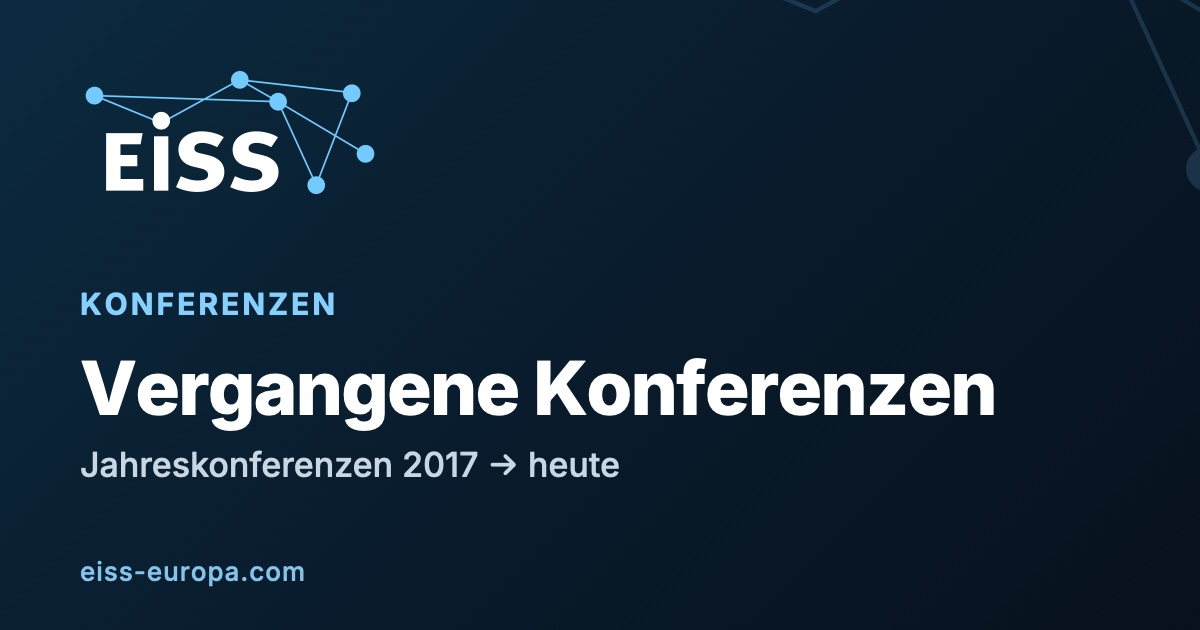
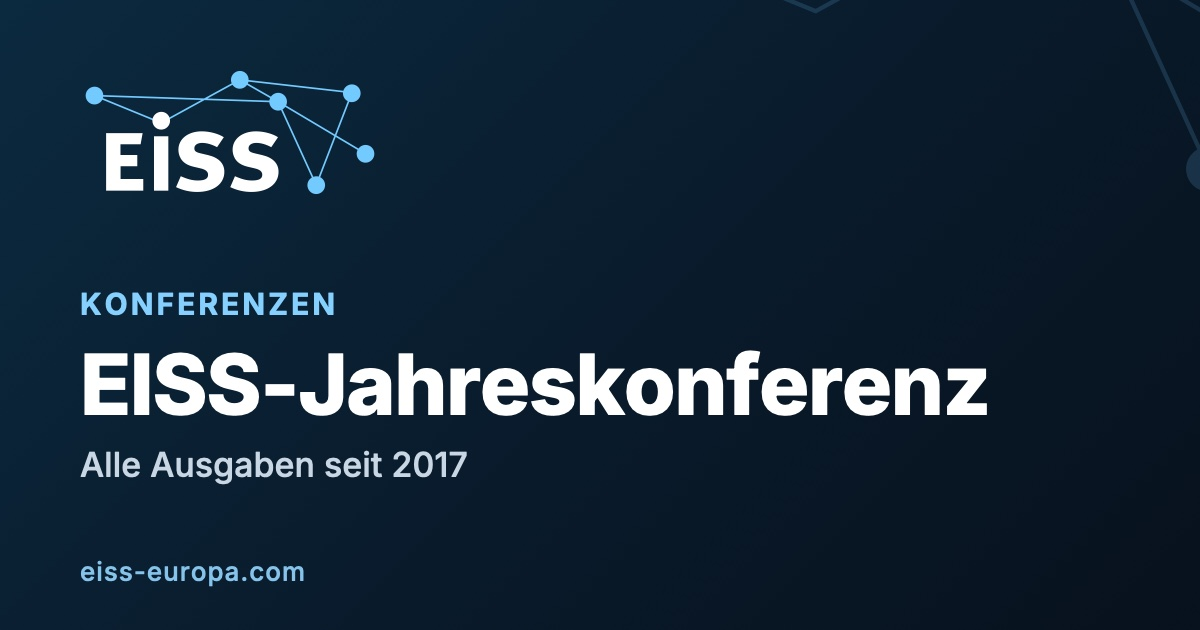
Name the conference share cards: ESSC for the live edition, EISS Annual Conference for the archive (#536)
Split the shared conference share card two ways:

- The upcoming / live edition (/2026, all locales) gets its own card,
  eyebrow 'ESSC 2026', titled 'European Security Studies Conference',
  with the dates and venue. /2026.njk (+ fr/de) metaImage points at the
  new 2026-meta.*.
- The /past archive index and the past years (/2025, /2024) keep the
  shared card, retitled from 'Past conferences' to 'EISS Annual
  Conference' ('Every edition since 2017').

Previously every conference page shared one 'Past conferences' card, so
the flagship upcoming page undersold itself. FR/DE titles are
hand-translated (Conférence européenne d'études de sécurité /
Europäische Konferenz für Sicherheitsstudien; Conférence annuelle de
l'EISS / EISS-Jahreskonferenz) — flagged for native-speaker confirmation.

docs/new-conference.md updated: step 3 uses the new full-name card
convention, and the 'When the conference is over' section documents the
rollover (retire the bespoke card, repoint the year to past-meta) so
exactly one edition ever carries the full-name card.

Cards regenerated and eyeballed (1200x630, Inter, brand blues); i18n
drift re-stamped for the 2026 front-matter change; build + build-sanity
clean. Closes #536.

Changed region(s): [[0.0617, 0.5429, 0.8325, 0.6937], [0.0617, 0.6937, 0.5242, 0.7841]]

diff --git a/scripts/make-share-cards.py b/scripts/make-share-cards.py
@@ -82,13 +82,24 @@ CARDS = [
         "de": {"eyebrow": "EISS", "title": "Europäische Initiative für Sicherheitsstudien",
                "subtitle": "Europas größte Versammlung zu Sicherheitsfragen"},
     }},
-    # NB: the per-year conference pages (/2026, /2025, /2024) and the
-    # archive index (/past) all share ONE share card — `past-meta.*` —
-    # since the conference-card unification (#485). So there are no per-year
-    # cards here; generating them would only produce orphans (which is what
-    # #516 cleaned up). Whether the upcoming flagship edition deserves its
-    # own card again (rather than the "Past conferences" shared one) is
-    # tracked separately.
+    # Conference cards split two ways (see #536):
+    #   - The upcoming / live edition gets its OWN card, titled with the
+    #     full conference name ("European Security Studies Conference"),
+    #     below as the `2026` slug; /2026 (+ .fr/.de) point their metaImage
+    #     at 2026-meta.*.
+    #   - The archived years (/2025, /2024) and the /past index share the
+    #     `past` card, titled "EISS Annual Conference".
+    # Rollover: when this edition becomes past, repoint /2026 to past-meta
+    # and add the next edition here under its own slug. See
+    # docs/new-conference.md.
+    {"slug": "2026", "i18n": {
+        "en": {"eyebrow": "ESSC 2026", "title": "European Security Studies Conference",
+               "subtitle": "11–12 June 2026 · Stockholm University"},
+        "fr": {"eyebrow": "ESSC 2026", "title": "Conférence européenne d'études de sécurité",
+               "subtitle": "11–12 juin 2026 · Université de Stockholm"},
+        "de": {"eyebrow": "ESSC 2026", "title": "Europäische Konferenz für Sicherheitsstudien",
+               "subtitle": "11.–12. Juni 2026 · Universität Stockholm"},
+    }},
     {"slug": "board", "i18n": {
         "en": {"eyebrow": "About", "title": "The People",
                "subtitle": "The EISS board and support team"},
@@ -98,12 +109,12 @@ CARDS = [
                "subtitle": "Der EISS-Vorstand und das Unterstützungsteam"},
     }},
     {"slug": "past", "i18n": {
-        "en": {"eyebrow": "Conferences", "title": "Past conferences",
-               "subtitle": "Annual conferences 2017 → today"},
-        "fr": {"eyebrow": "Conférences", "title": "Conférences passées",
-               "subtitle": "Conférences annuelles 2017 → aujourd'hui"},
-        "de": {"eyebrow": "Konferenzen", "title": "Vergangene Konferenzen",
-               "subtitle": "Jahreskonferenzen 2017 → heute"},
+        "en": {"eyebrow": "Conferences", "title": "EISS Annual Conference",
+               "subtitle": "Every edition since 2017"},
+        "fr": {"eyebrow": "Conférences", "title": "Conférence annuelle de l'EISS",
+               "subtitle": "Toutes les éditions depuis 2017"},
+        "de": {"eyebrow": "Konferenzen", "title": "EISS-Jahreskonferenz",
+               "subtitle": "Alle Ausgaben seit 2017"},
     }},
     {"slug": "programmes", "i18n": {
         "en": {"eyebrow": "Research programmes", "title": "Programmes",

diff --git a/docs/new-conference.md b/docs/new-conference.md
@@ -70,15 +70,21 @@ Copy `src/2026.njk` to `src/2027.njk` (and its FR/DE siblings) and:
 
 ## 3. Generate the share card
 
+The upcoming / live edition gets its own card, titled with the full
+conference name. The eyebrow (`ESSC <year>`) and subtitle (dates + venue)
+identify the edition; the title stays constant year to year. The archived
+years and `/past` keep the shared `past` card ("EISS Annual Conference"),
+so you don't touch those.
+
 Add a new entry to `scripts/make-share-cards.py` → `CARDS`:
 
 ```python
 {"slug": "2027", "i18n": {
-    "en": {"eyebrow": "Annual conference", "title": "ESSC 2027 — Amsterdam",
+    "en": {"eyebrow": "ESSC 2027", "title": "European Security Studies Conference",
            "subtitle": "23–24 June 2027 · University of Amsterdam"},
-    "fr": {"eyebrow": "Conférence annuelle", "title": "ESSC 2027 — Amsterdam",
+    "fr": {"eyebrow": "ESSC 2027", "title": "Conférence européenne d'études de sécurité",
            "subtitle": "23–24 juin 2027 · Université d'Amsterdam"},
-    "de": {"eyebrow": "Jahreskonferenz", "title": "ESSC 2027 — Amsterdam",
+    "de": {"eyebrow": "ESSC 2027", "title": "Europäische Konferenz für Sicherheitsstudien",
            "subtitle": "23.–24. Juni 2027 · Universität Amsterdam"},
 }},
 ```
@@ -90,7 +96,8 @@ python3 scripts/make-share-cards.py
 ```
 
 The script writes `2027-meta.jpg`, `2027-meta.fr.jpg`, `2027-meta.de.jpg`
-to `src/assets/images/`. Reference these in the new page's front-matter.
+to `src/assets/images/`. Point the new page's front-matter `metaImage`
+(EN + FR + DE) at `/assets/images/2027-meta.jpg`.
 
 ## 4. Update the i18n drift state
 
@@ -127,12 +134,27 @@ check the featured card and archive list. Commit, push, merge.
 
 ## When the conference is over
 
-Nothing to do. The `endDate` field in `conferences.js` tells the data
-file to move the entry from `next`/`upcoming` to `past` automatically
-on the next build. The daily-rebuild workflow
+The page placement is automatic: the `endDate` field in `conferences.js`
+moves the entry from `next`/`upcoming` to `past` on the next build, and
+the daily-rebuild workflow
 ([`.github/workflows/scheduled-rebuild.yml`](../.github/workflows/scheduled-rebuild.yml))
-ensures the cut-off advances within ~24 hours of the end date without
-any manual action.
+advances the cut-off within ~24 hours of the end date without any manual
+action.
+
+One manual step for the **share card**: retire the just-past edition's
+bespoke card so the archive reads with the shared "EISS Annual
+Conference" card.
+
+- Point that year's page front-matter `metaImage` (EN + FR + DE) back at
+  `/assets/images/past-meta.jpg`.
+- Remove the year's entry from `CARDS` in `scripts/make-share-cards.py`
+  and delete its `<year>-meta.*` files (otherwise the generator keeps
+  producing an unreferenced per-year card — a `check-build-sanity` /
+  orphan check will flag it).
+
+This is the same swap, in reverse, that step 3 does for the new edition,
+so at any time exactly one edition (the upcoming / live one) carries the
+full-name card and everything else shares the archive card.
 
 If you want to keep the just-past year visible in the homepage hero
 for a few days after, edit `src/_data/conferences.js` and bump that

diff --git a/CHANGELOG.md b/CHANGELOG.md
@@ -112,6 +112,7 @@ At v2.13.0r (formerly v2.21.0) we adopted the NetSec-style versioning rules spel
 ### Changed
 
 - **The social share cards are redesigned on the brand identity.** When a page is shared to LinkedIn, X, Mastodon, Bluesky, Facebook or Slack, the preview card now carries the real EISS lockup (the constellation mark plus the EiSS wordmark, embedded from the brand kit) and the brand blues, set in Inter, on a deep brand-navy gradient. They replace the old cards, which drew an off-spec blocky "E" tile and an indigo gradient a hue off the brand. The cards are now proper landscape (1200×630, the `summary_large_image` ratio) with long titles wrapping to two lines, and the page markup declares the image type and dimensions so scrapers render the preview without a round-trip. The generator (`scripts/make-share-cards.py`) reads the canonical brand SVGs at build time, so the cards stay in lockstep with the logo. From the June 2026 brand-consistency audit, closing [#514](https://github.com/EISSeuropa/EISSeuropa.github.io/issues/514).
+- **Conference share cards now name the event.** The upcoming edition's page (`/2026`) carries its own card — eyebrow "ESSC 2026", titled **European Security Studies Conference**, with the dates and venue — while the archive index and past years share a card titled **EISS Annual Conference**. Previously every conference page shared one card labelled "Past conferences", so the flagship upcoming page undersold itself. The per-edition rollover (retiring a bespoke card to the shared archive card once an edition is over) is documented in `docs/new-conference.md`. Closes [#536](https://github.com/EISSeuropa/EISSeuropa.github.io/issues/536).
 - **The UI accent is now the brand blue, so the logo and the interface read as one system.** The accent that colours links, buttons, focus rings and badges was a slightly indigo `hsl(216 88% 50%)`, a different blue from the logo's brand blue `#007bc6` (hue 203). The accent token is now exactly `#007bc6` in light mode (`hsl(203 100% 39%)`, lifted to `hsl(203 100% 66%)` in dark mode and darkened for print), and the whole blue family across the stylesheet has moved onto hue 203 — including the hero gradient mesh, whose two off-palette violet blobs (`hsl(250 …)` / `hsl(280 …)`) are pulled onto the brand hue. White-on-accent and accent-on-white both clear WCAG AA (4.5:1). From the June 2026 brand-consistency audit, closing [#512](https://github.com/EISSeuropa/EISSeuropa.github.io/issues/512) and the gradient half of [#519](https://github.com/EISSeuropa/EISSeuropa.github.io/issues/519).
 - **New "Co-Director" leadership role on the People page.** The board-sync pipeline and the page now recognise a **Co-Director** role, placed in the Leadership section just below Founding Director (`scripts/board-source.json` roles table, tier 2; `boardSorted.js` derives the section from it). This clears the sync warning where the Form's "Co-Director" value fell back to "Board Member", and Moritz Weiss moves from Secretary-General to Co-Director on the next board sync.
 - **Departed board members now show their photos on the People page.** The EISS-community cards for Flavia Gasbarri, Mauro Gilli and Stephanie Hofmann display their headshots instead of initials placeholders. Their photo files were already in the repo but unreferenced, so the cards fell back to initials; each is now wired in via `photoOverride` in `board.json` (the sync-safe manual hatch). Avinash Paliwal keeps the initials placeholder, as no photo is on file.